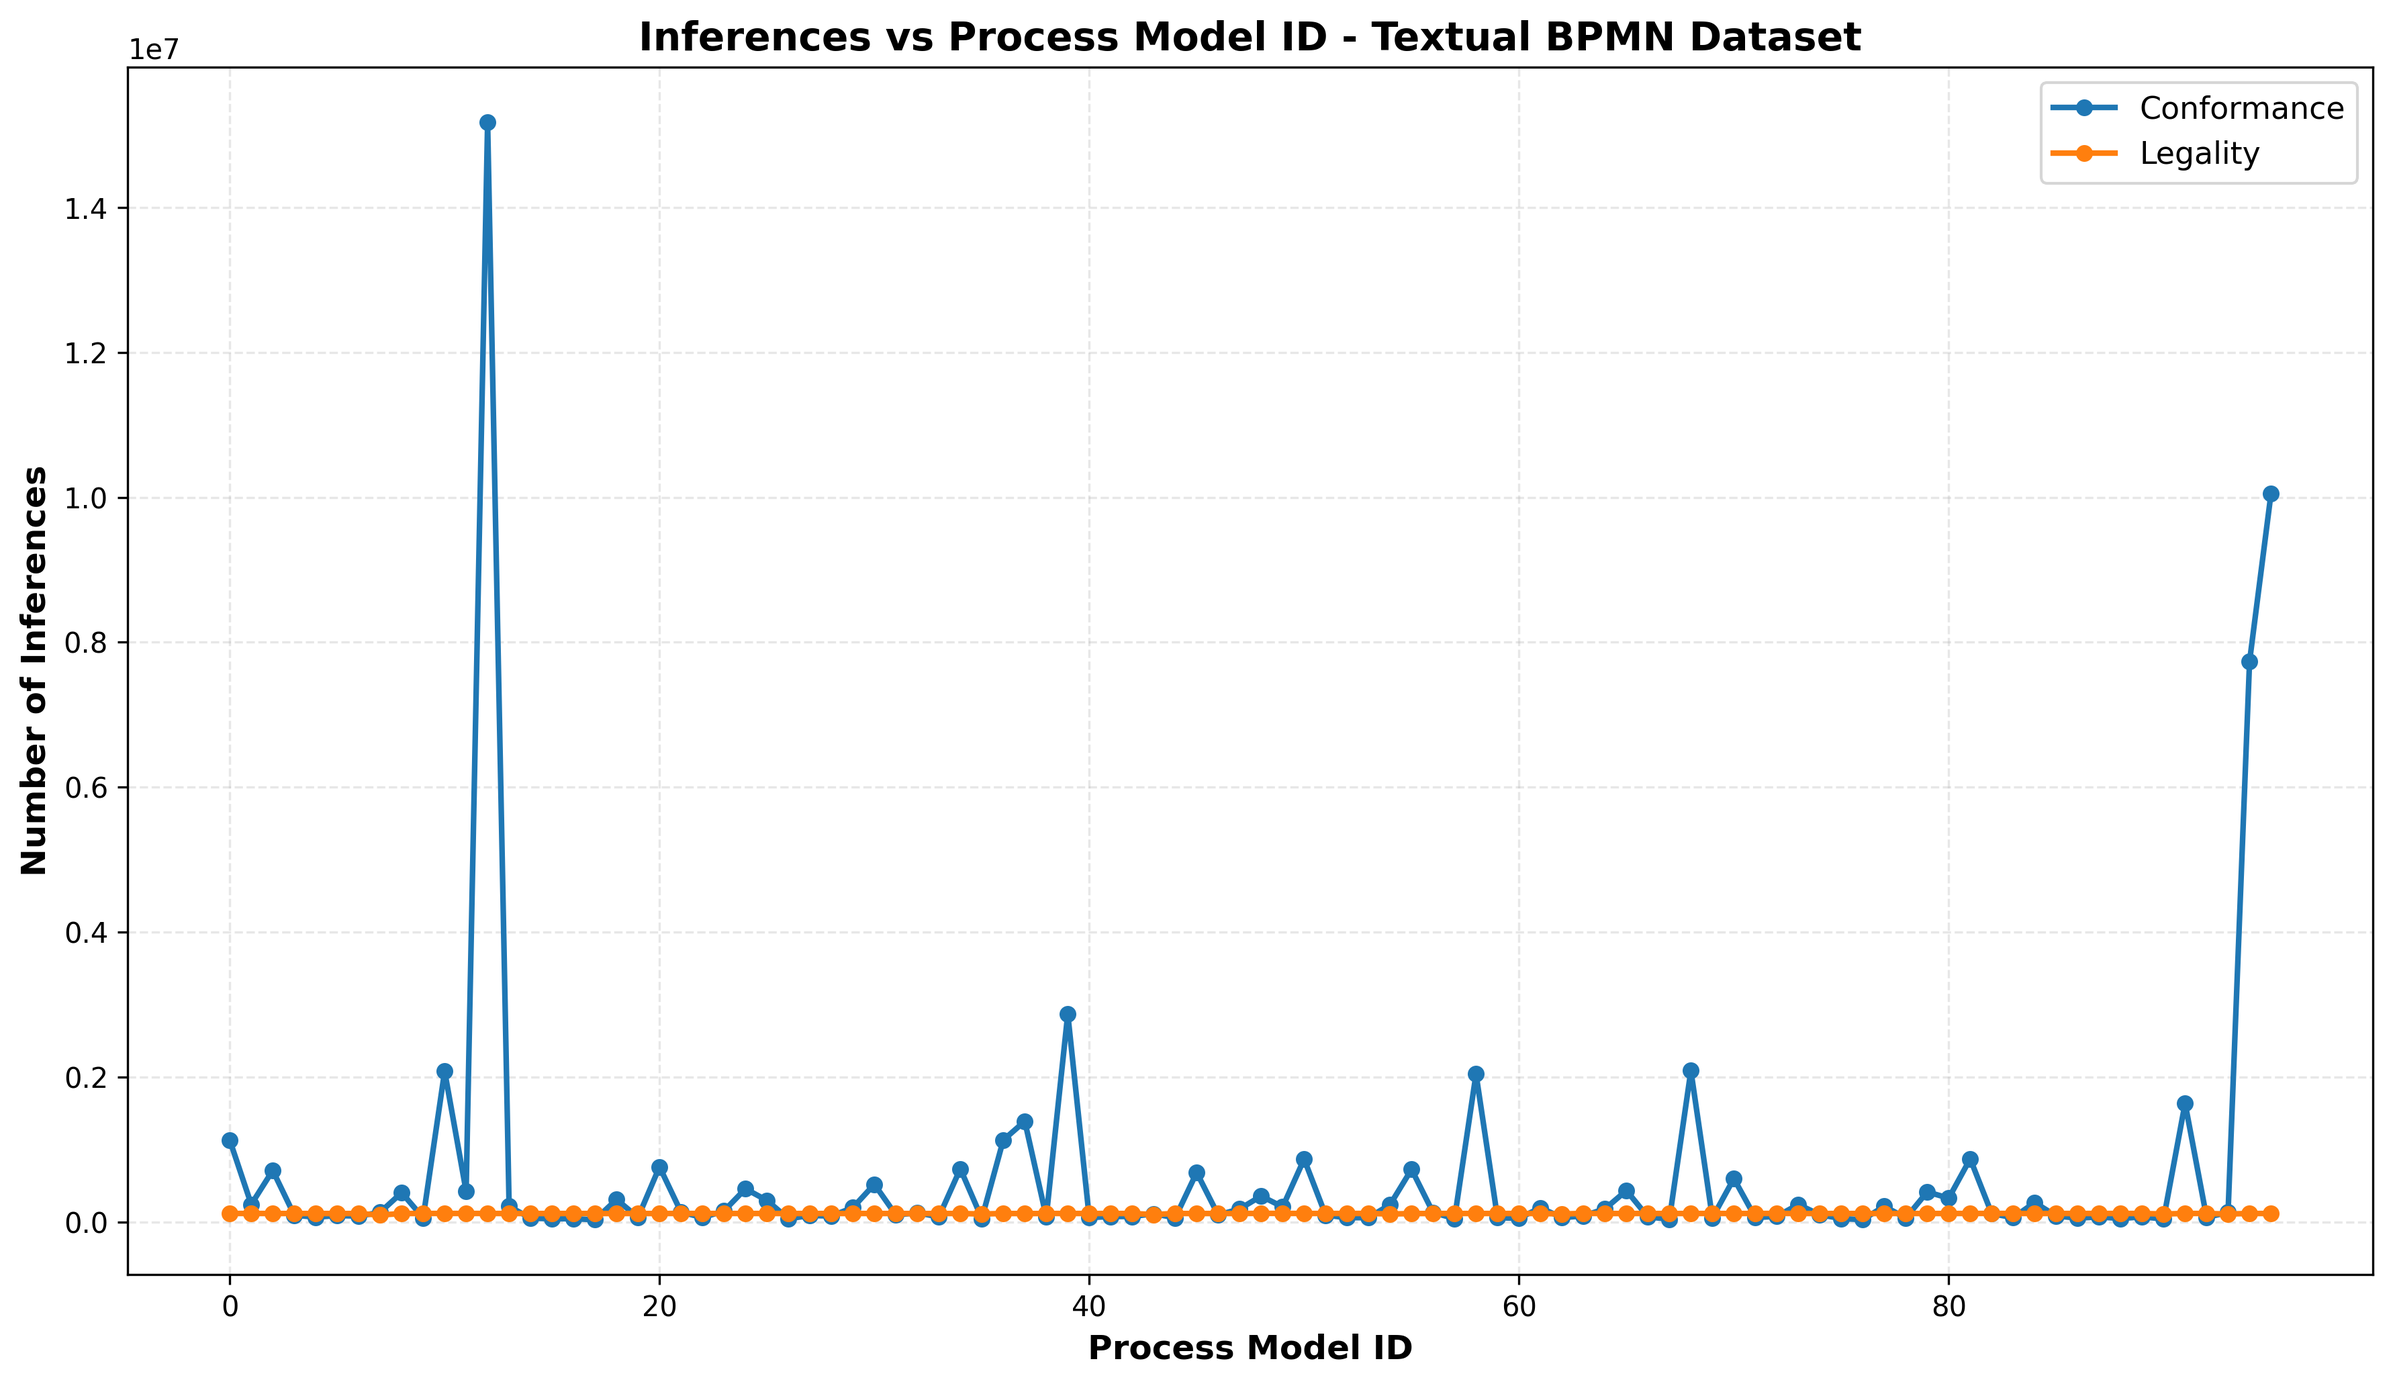
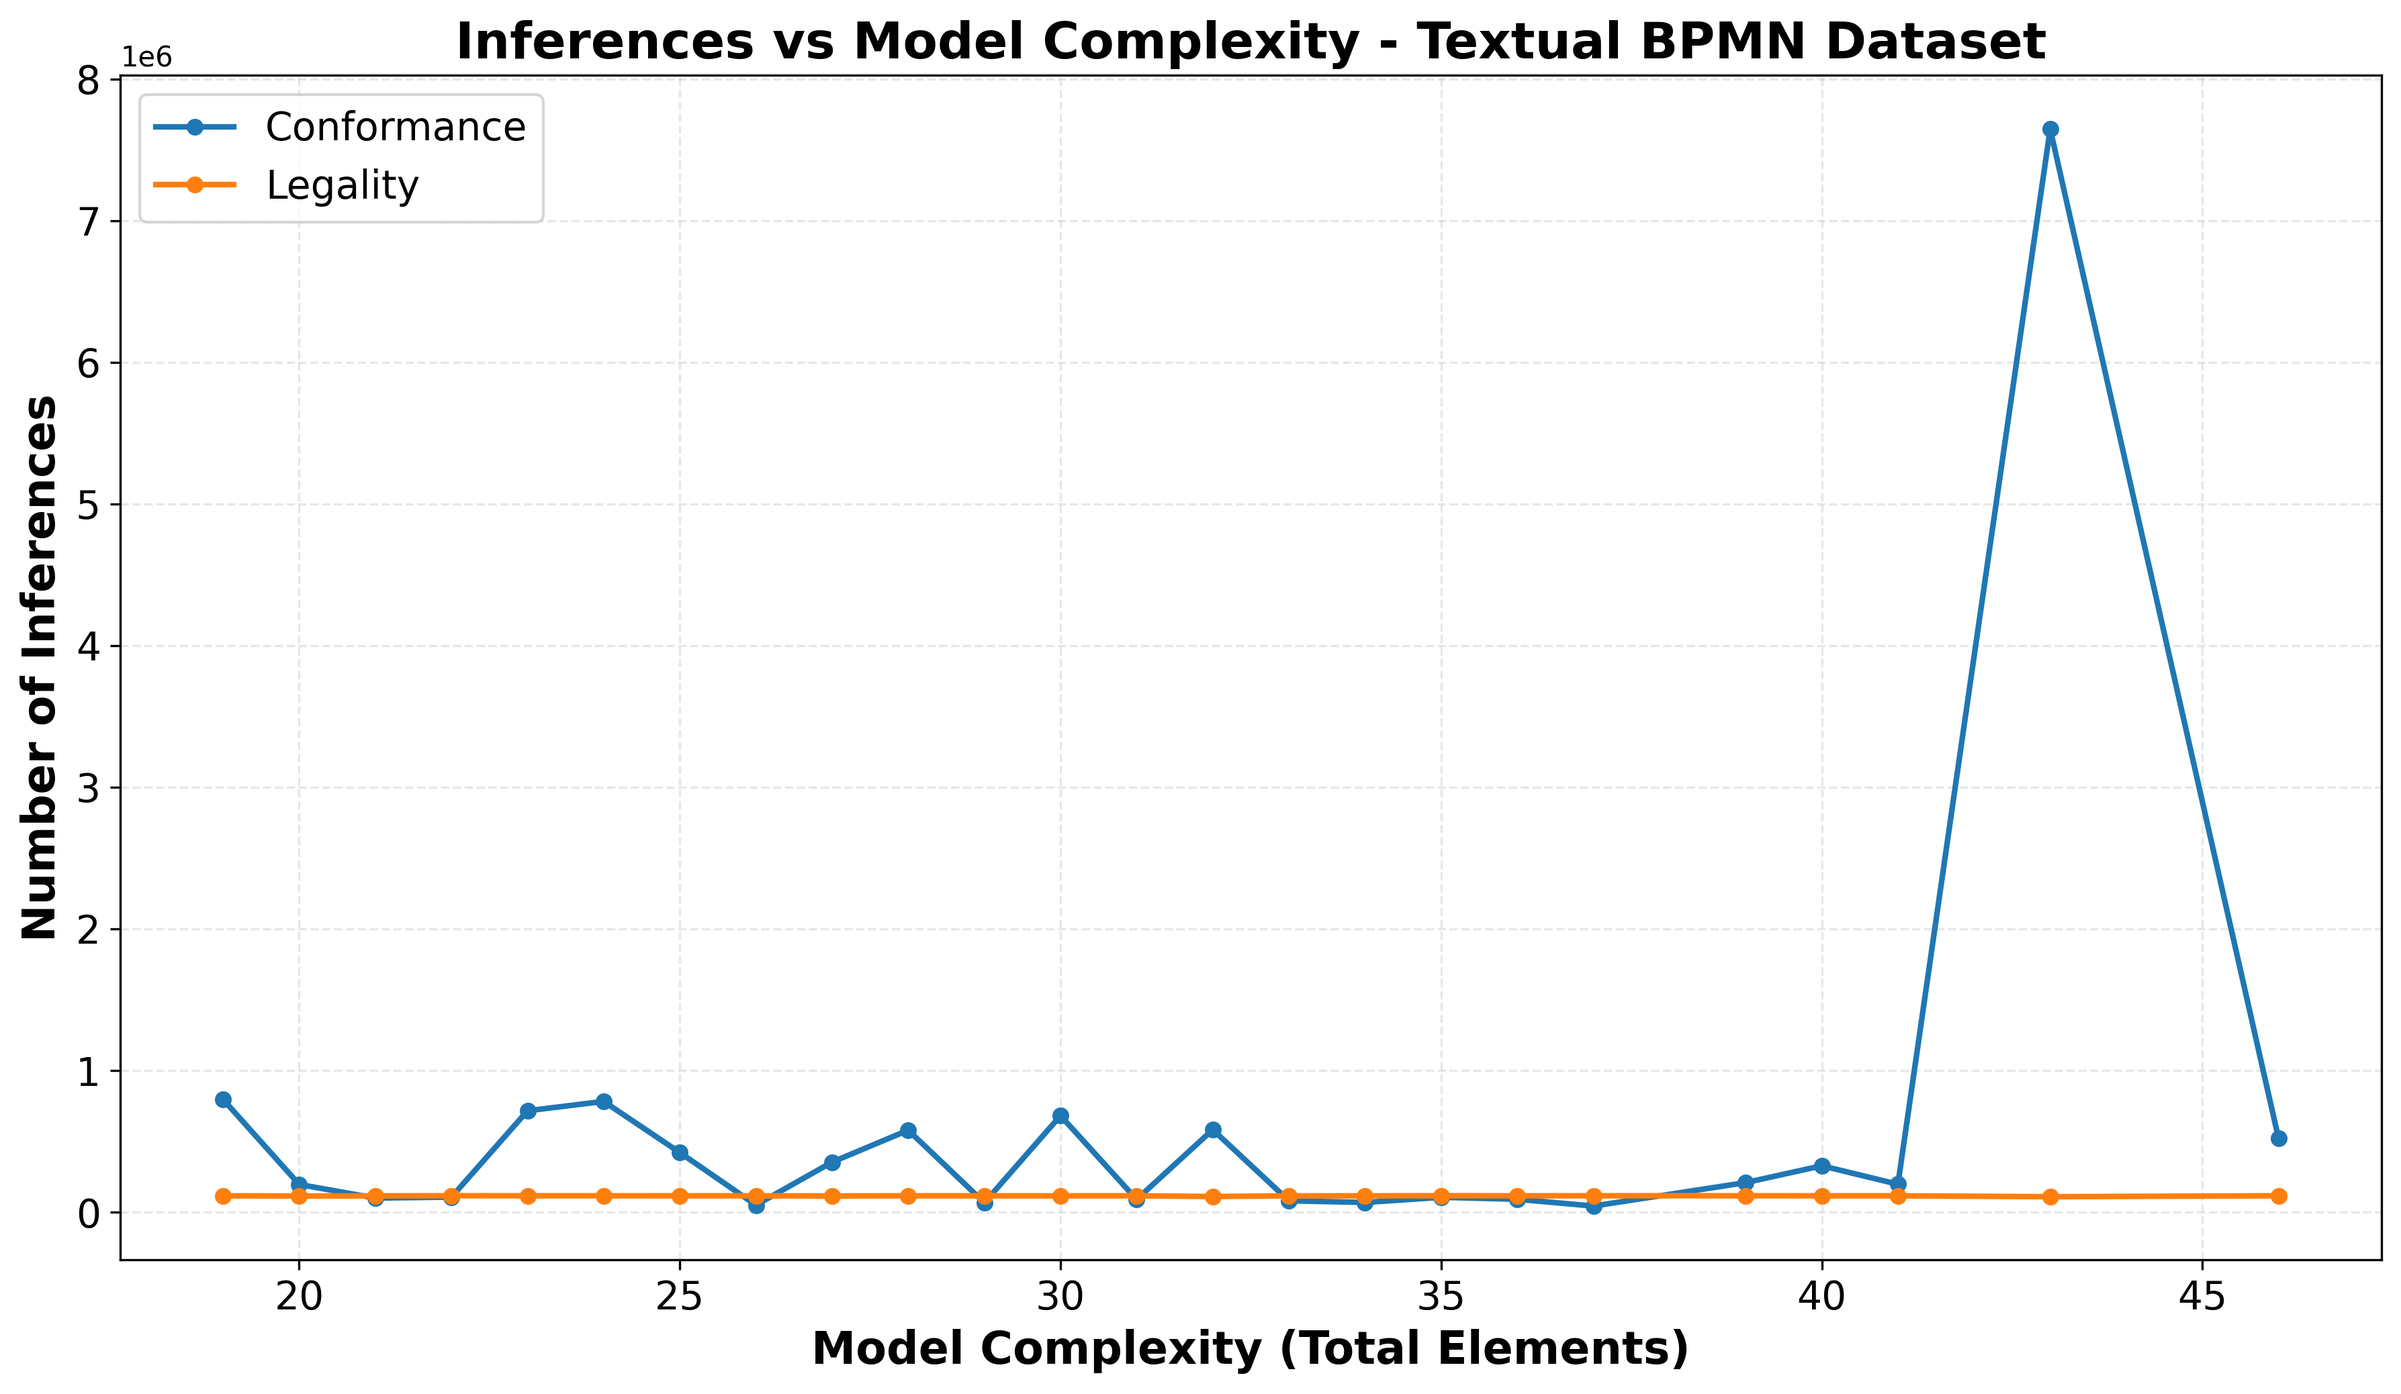
first revision round updates

diff --git a/evaluation/src/chart_generator.py b/evaluation/src/chart_generator.py
@@ -31,6 +31,22 @@ class ChartGenerator:
         
         print(f"Loaded {len(self.results)} result entries from {self.results_csv_path}")
     
+    def _load_bpmn_metrics(self, metrics_csv_path: str) -> dict:
+        """Load BPMN metrics and return mapping from model_name to total_elements."""
+        model_to_elements = {}
+        if not os.path.exists(metrics_csv_path):
+            print(f"Warning: BPMN metrics file not found: {metrics_csv_path}")
+            return model_to_elements
+        
+        with open(metrics_csv_path, 'r') as f:
+            reader = csv.DictReader(f)
+            for row in reader:
+                model_name = row['model_name']
+                total_elements = int(row['total_elements'])
+                model_to_elements[model_name] = total_elements
+        
+        return model_to_elements
+    
     def _extract_process_number(self, model_name: str) -> int:
         match = re.search(r'process_(\d+)', model_name)
         if match:
@@ -38,55 +54,68 @@ class ChartGenerator:
         return 0
     
     def _aggregate_by_model_and_task(self):
-        # Structure: task_type -> process_num -> list of samples
+        # Determine which BPMN metrics file to use
+        is_leg_conf = 'leg_conf' in self.results_csv_path.lower()
+        metrics_dir = os.path.join(self.output_dir, 'bpmn_metrics')
+        
+        if is_leg_conf:
+            bpmn_metrics_csv = os.path.join(metrics_dir, 'bpmn_metrics_processed.csv')
+        else:
+            bpmn_metrics_csv = os.path.join(metrics_dir, 'bpmn_metrics_exams.csv')
+        
+        # Load mapping from model_name to total_elements
+        model_to_elements = self._load_bpmn_metrics(bpmn_metrics_csv)
+        
+        # Structure: task_type -> total_elements -> list of samples
         aggregated = defaultdict(lambda: defaultdict(list))
         
-        # Determine if this is leg_conf dataset (starts from process_1, not process_0)
-        is_leg_conf = any('leg_conf' in self.results_csv_path.lower() for _ in [1])
-        
-        # Also collect timeout/error markers per task and process
+        # Also collect timeout/error markers per task and complexity
         timeouts_by_task = defaultdict(set)
         errors_by_task = defaultdict(set)
 
         for row in self.results:
             task_type = row['task_type']
             model_name = row['model_name']
-            process_num = self._extract_process_number(model_name)
             
-            # Adjust process number for leg_conf dataset to start from 0
-            if is_leg_conf:
-                process_num -= 1
+            # Get total_elements for this model
+            if model_name not in model_to_elements:
+                print(f"Warning: No BPMN metrics found for {model_name}, skipping")
+                continue
+            
+            total_elements = model_to_elements[model_name]
             
             # Record timeout/error presence for markers, but exclude from metric aggregation
             status = row.get('status', '').strip().lower()
             if status == 'timeout':
-                timeouts_by_task[task_type].add(process_num)
+                timeouts_by_task[task_type].add(total_elements)
                 # do not include timed-out rows in aggregated metrics
                 continue
             if status == 'error':
-                errors_by_task[task_type].add(process_num)
+                errors_by_task[task_type].add(total_elements)
                 # do not include error rows in aggregated metrics
                 continue
             correct = row['correct'].lower() == 'true'
             reasoning_time = float(row['reasoning_time'])
             inferences = int(row['inferences'])
             
-            aggregated[task_type][process_num].append({
+            aggregated[task_type][total_elements].append({
                 'correct': correct,
-                'reasoning_time': reasoning_time,
+                'reasoning_time': reasoning_time * 1000,  # Convert to milliseconds
                 'inferences': inferences
             })
         
+        # Calculate average metrics for each task_type and total_elements
+        # Multiple models with same total_elements will be averaged
         metrics = defaultdict(lambda: defaultdict(dict))
-        for task_type, models in aggregated.items():
-            for process_num, samples in models.items():
+        for task_type, complexity_groups in aggregated.items():
+            for total_elements, samples in complexity_groups.items():
                 total_samples = len(samples)
                 correct_samples = sum(1 for s in samples if s['correct'])
                 accuracy = (correct_samples / total_samples * 100) if total_samples > 0 else 0
                 avg_reasoning_time = np.mean([s['reasoning_time'] for s in samples])
                 avg_inferences = np.mean([s['inferences'] for s in samples])
                 
-                metrics[task_type][process_num] = {
+                metrics[task_type][total_elements] = {
                     'accuracy': accuracy,
                     'reasoning_time': avg_reasoning_time,
                     'inferences': avg_inferences
@@ -100,9 +129,10 @@ class ChartGenerator:
             if task_type not in metrics:
                 continue
             
-            process_nums = sorted(metrics[task_type].keys())
-            metric_values = [metrics[task_type][pn][metric_name] for pn in process_nums]
-            plot_data[task_type] = (process_nums, metric_values)
+            # Sort by total_elements (complexity)
+            total_elements_sorted = sorted(metrics[task_type].keys())
+            metric_values = [metrics[task_type][te][metric_name] for te in total_elements_sorted]
+            plot_data[task_type] = (total_elements_sorted, metric_values)
         
         return plot_data
     
@@ -120,11 +150,13 @@ class ChartGenerator:
                     markersize=5,
                     label=task_type.capitalize())
         
-        plt.xlabel('Process Model ID', fontsize=12, fontweight='bold')
-        plt.ylabel(ylabel, fontsize=12, fontweight='bold')
-        plt.title(title, fontsize=14, fontweight='bold')
+        plt.xlabel('Model Complexity (Total Elements)', fontsize=16, fontweight='bold')
+        plt.ylabel(ylabel, fontsize=16, fontweight='bold')
+        plt.title(title, fontsize=18, fontweight='bold')
         plt.grid(True, alpha=0.3, linestyle='--')
-        plt.legend(fontsize=11, loc='best')
+        plt.legend(fontsize=14, loc='best')
+        plt.xticks(fontsize=14)
+        plt.yticks(fontsize=14)
         # If we have timeout markers, plot them as red 'x' at y=0
         any_timeouts = False
         if timeouts_by_task:
@@ -174,15 +206,15 @@ class ChartGenerator:
         self._create_line_chart(
             plot_data,
             ylabel='Accuracy (%)',
-            title=f'Accuracy vs Process Model ID{dataset_suffix}',
+            title=f'Accuracy vs Model Complexity{dataset_suffix}',
             filename=f'{csv_basename}_accuracy.png'
             , timeouts_by_task=timeouts_by_task, errors_by_task=errors_by_task
         )
         plot_data = self._get_sorted_data(metrics, task_types, 'reasoning_time')
         self._create_line_chart(
             plot_data,
-            ylabel='Reasoning Time (seconds)',
-            title=f'Reasoning Time vs Process Model ID{dataset_suffix}',
+            ylabel='Reasoning Time (ms)',
+            title=f'Reasoning Time vs Model Complexity{dataset_suffix}',
             filename=f'{csv_basename}_reasoning_time.png'
             , timeouts_by_task=timeouts_by_task, errors_by_task=errors_by_task
         )
@@ -190,7 +222,7 @@ class ChartGenerator:
         self._create_line_chart(
             plot_data,
             ylabel='Number of Inferences',
-            title=f'Inferences vs Process Model ID{dataset_suffix}',
+            title=f'Inferences vs Model Complexity{dataset_suffix}',
             filename=f'{csv_basename}_inferences.png'
             , timeouts_by_task=timeouts_by_task, errors_by_task=errors_by_task
         )
@@ -206,14 +238,14 @@ class ChartGenerator:
         translation_files = {
             'Legality & Conformance': {
                 'csv': os.path.join(metrics_dir, 'translation_metrics_leg_conf.csv'),
+                'bpmn_csv': os.path.join(metrics_dir, 'bpmn_metrics_processed.csv'),
                 'filename': 'translation_time_leg_conf.png',
-                'adjust_offset': True,  # Start from 0 instead of 1
                 'dataset_suffix': ' - Textual BPMN Dataset'
             },
             'Projection & Verification': {
                 'csv': os.path.join(metrics_dir, 'translation_metrics_exams.csv'),
+                'bpmn_csv': os.path.join(metrics_dir, 'bpmn_metrics_exams.csv'),
                 'filename': 'translation_time_proj_verif.png',
-                'adjust_offset': False,  # Keep original numbering
                 'dataset_suffix': ' - Exams BPMN Dataset'
             }
         }
@@ -221,56 +253,59 @@ class ChartGenerator:
         # Generate a separate chart for each dataset
         for dataset_name, file_info in translation_files.items():
             csv_path = file_info['csv']
+            bpmn_csv_path = file_info['bpmn_csv']
             
             if not os.path.exists(csv_path):
                 print(f"  Warning: Translation metrics file not found: {csv_path}")
                 continue
             
-            # Read translation metrics
-            process_nums = []
-            translation_times = []
+            # Load BPMN metrics to get total_elements for each model
+            model_to_elements = self._load_bpmn_metrics(bpmn_csv_path)
+            
+            # Read translation metrics and map to total_elements
+            # Group by total_elements and average translation times
+            complexity_to_times = defaultdict(list)
             
             with open(csv_path, 'r') as f:
                 reader = csv.DictReader(f)
                 for row in reader:
-                    process_num = self._extract_process_number(row['model_name'])
+                    model_name = row['model_name']
                     
-                    # Adjust process number for leg_conf dataset to start from 0
-                    if file_info['adjust_offset']:
-                        process_num -= 1
+                    if model_name not in model_to_elements:
+                        print(f"  Warning: No BPMN metrics found for {model_name}, skipping")
+                        continue
                     
-                    translation_time = float(row['translation_time_sec'])
-                    process_nums.append(process_num)
-                    translation_times.append(translation_time)
+                    total_elements = model_to_elements[model_name]
+                    translation_time = float(row['translation_time_sec']) * 1000  # Convert to ms
+                    complexity_to_times[total_elements].append(translation_time)
             
-            if not process_nums:
+            if not complexity_to_times:
                 print(f"  Warning: No data found in {csv_path}")
                 continue
             
-            # Sort by process number
-            sorted_pairs = sorted(zip(process_nums, translation_times))
-            process_nums, translation_times = zip(*sorted_pairs)
+            # Average translation times for same complexity levels
+            total_elements_list = sorted(complexity_to_times.keys())
+            avg_translation_times = [np.mean(complexity_to_times[te]) for te in total_elements_list]
             
-            print(f"  Loaded {len(process_nums)} translation metrics from {dataset_name}")
+            print(f"  Loaded {sum(len(v) for v in complexity_to_times.values())} translation metrics from {dataset_name}")
+            print(f"  Aggregated into {len(total_elements_list)} unique complexity levels")
             
             # Create the chart for this dataset
             plt.figure(figsize=(12, 7))
             
-            plt.plot(process_nums, translation_times, 
+            plt.plot(total_elements_list, avg_translation_times, 
                     linewidth=2,
                     marker='o',
                     markersize=5,
                     color='#2E86AB',
                     label=dataset_name)
             
-            plt.xlabel('Process Model ID', fontsize=12, fontweight='bold')
-            plt.ylabel('Translation Time (seconds)', fontsize=12, fontweight='bold')
-            plt.title(f'BPMN to IndiGolog Translation Time{file_info["dataset_suffix"]}', fontsize=14, fontweight='bold')
+            plt.xlabel('Model Complexity (Total Elements)', fontsize=16, fontweight='bold')
+            plt.ylabel('Translation Time (ms)', fontsize=16, fontweight='bold')
+            plt.title(f'BPMN to IndiGolog Translation Time{file_info["dataset_suffix"]}', fontsize=18, fontweight='bold')
             plt.grid(True, alpha=0.3, linestyle='--')
-            
-            # Format y-axis to show 3 decimal places
-            from matplotlib.ticker import FormatStrFormatter
-            plt.gca().yaxis.set_major_formatter(FormatStrFormatter('%.3f'))
+            plt.xticks(fontsize=14)
+            plt.yticks(fontsize=14)
             
             plt.tight_layout()
             

diff --git a/evaluation/src/bpmn_metrics.py b/evaluation/src/bpmn_metrics.py
@@ -31,7 +31,7 @@ class BPMNMetrics:
     def total_elements(self) -> int:
         return (self.num_tasks + self.num_exclusive_gateways + 
                 self.num_parallel_gateways + self.num_events + 
-                self.num_pools + self.num_subprocesses)
+                self.num_subprocesses + self.num_data_objects)
     
     def to_dict(self) -> Dict:
         return {
@@ -175,7 +175,7 @@ class BPMNMetricsExtractor:
             num_exclusive_gateways=len(exclusive_gateways),
             num_parallel_gateways=len(parallel_gateways),
             num_events=len(event_elements),
-            num_pools=len(pools),
+            num_pools=max(1, len(pools)),  # At least 1 pool (implicit default pool if none defined)
             num_subprocesses=len(subprocesses),
             num_data_objects=len(data_objects) + len(data_object_refs),
             task_names=task_names,
